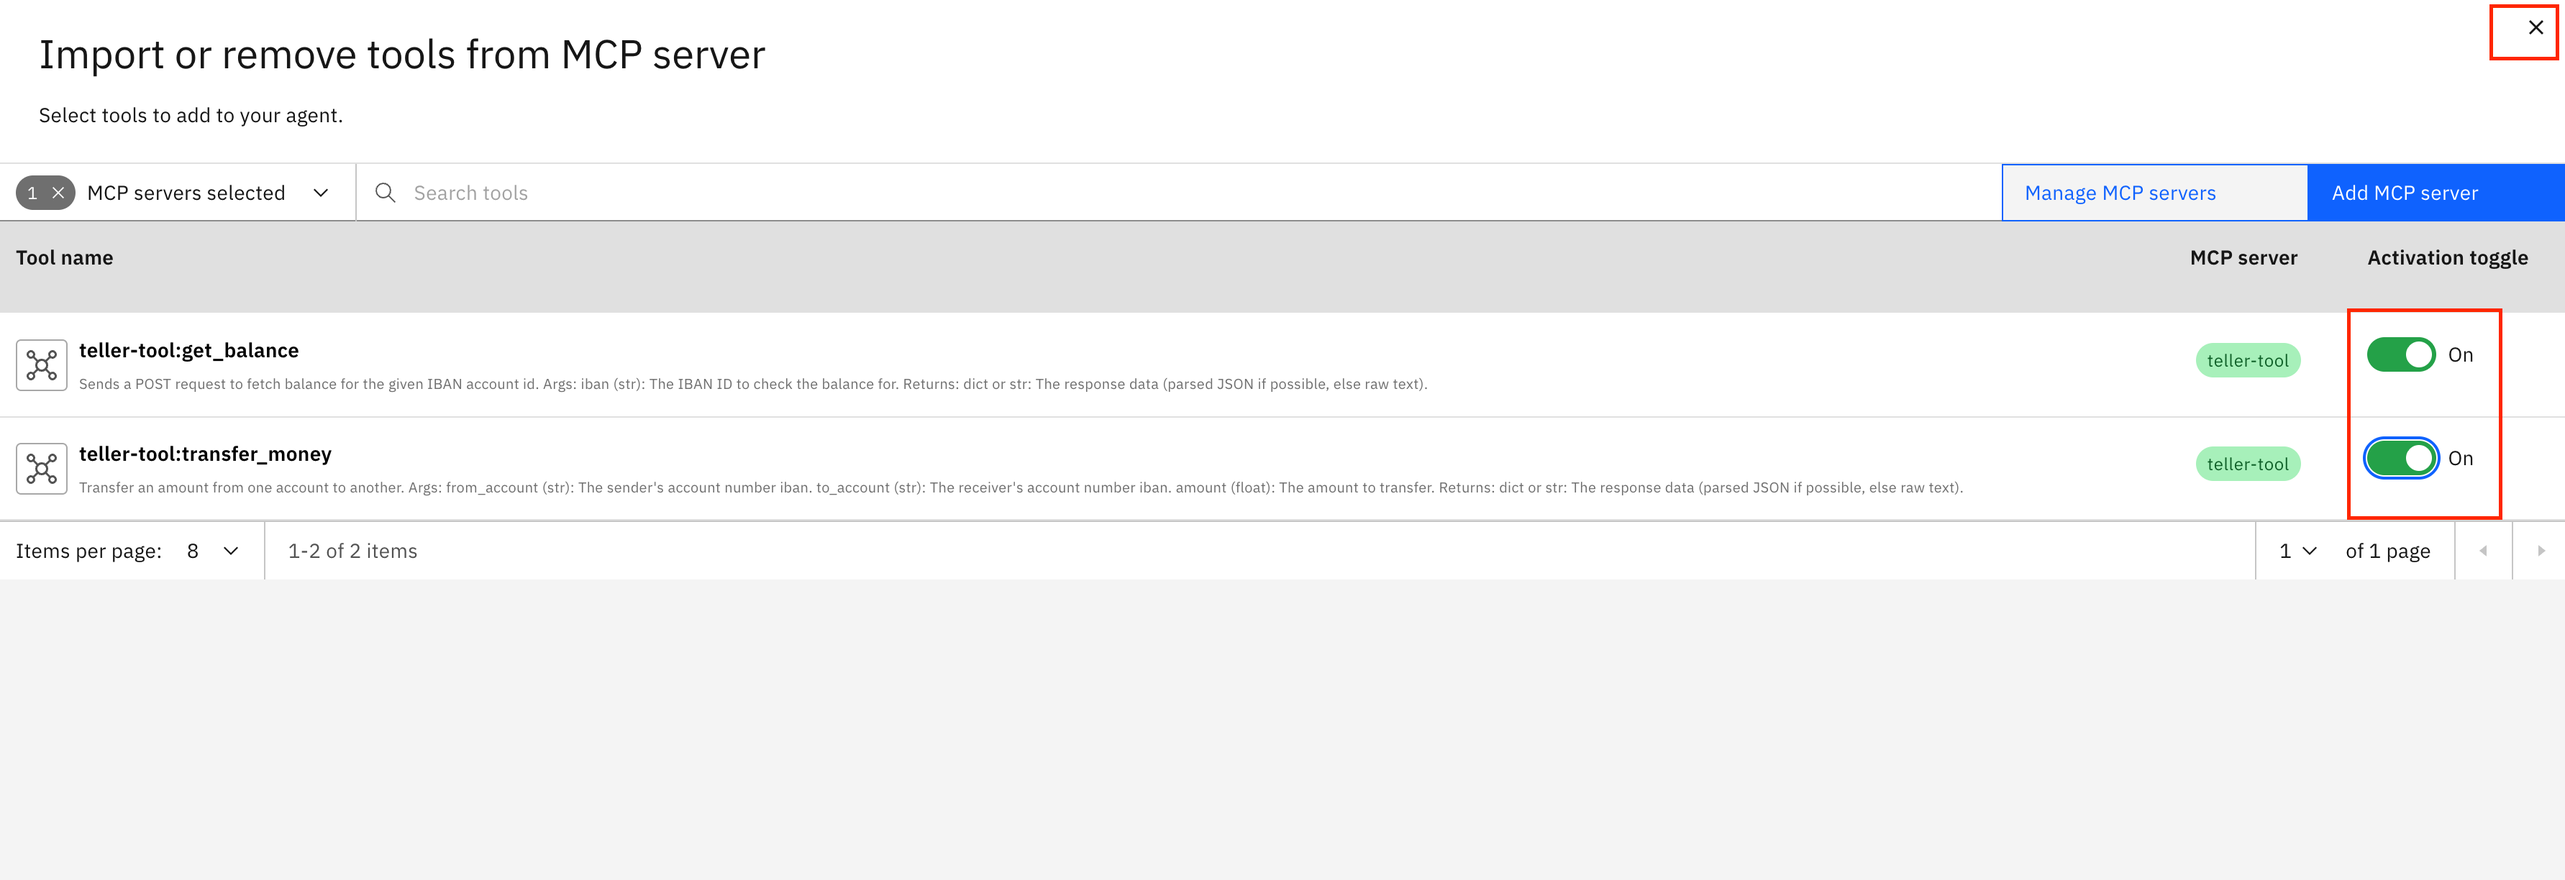
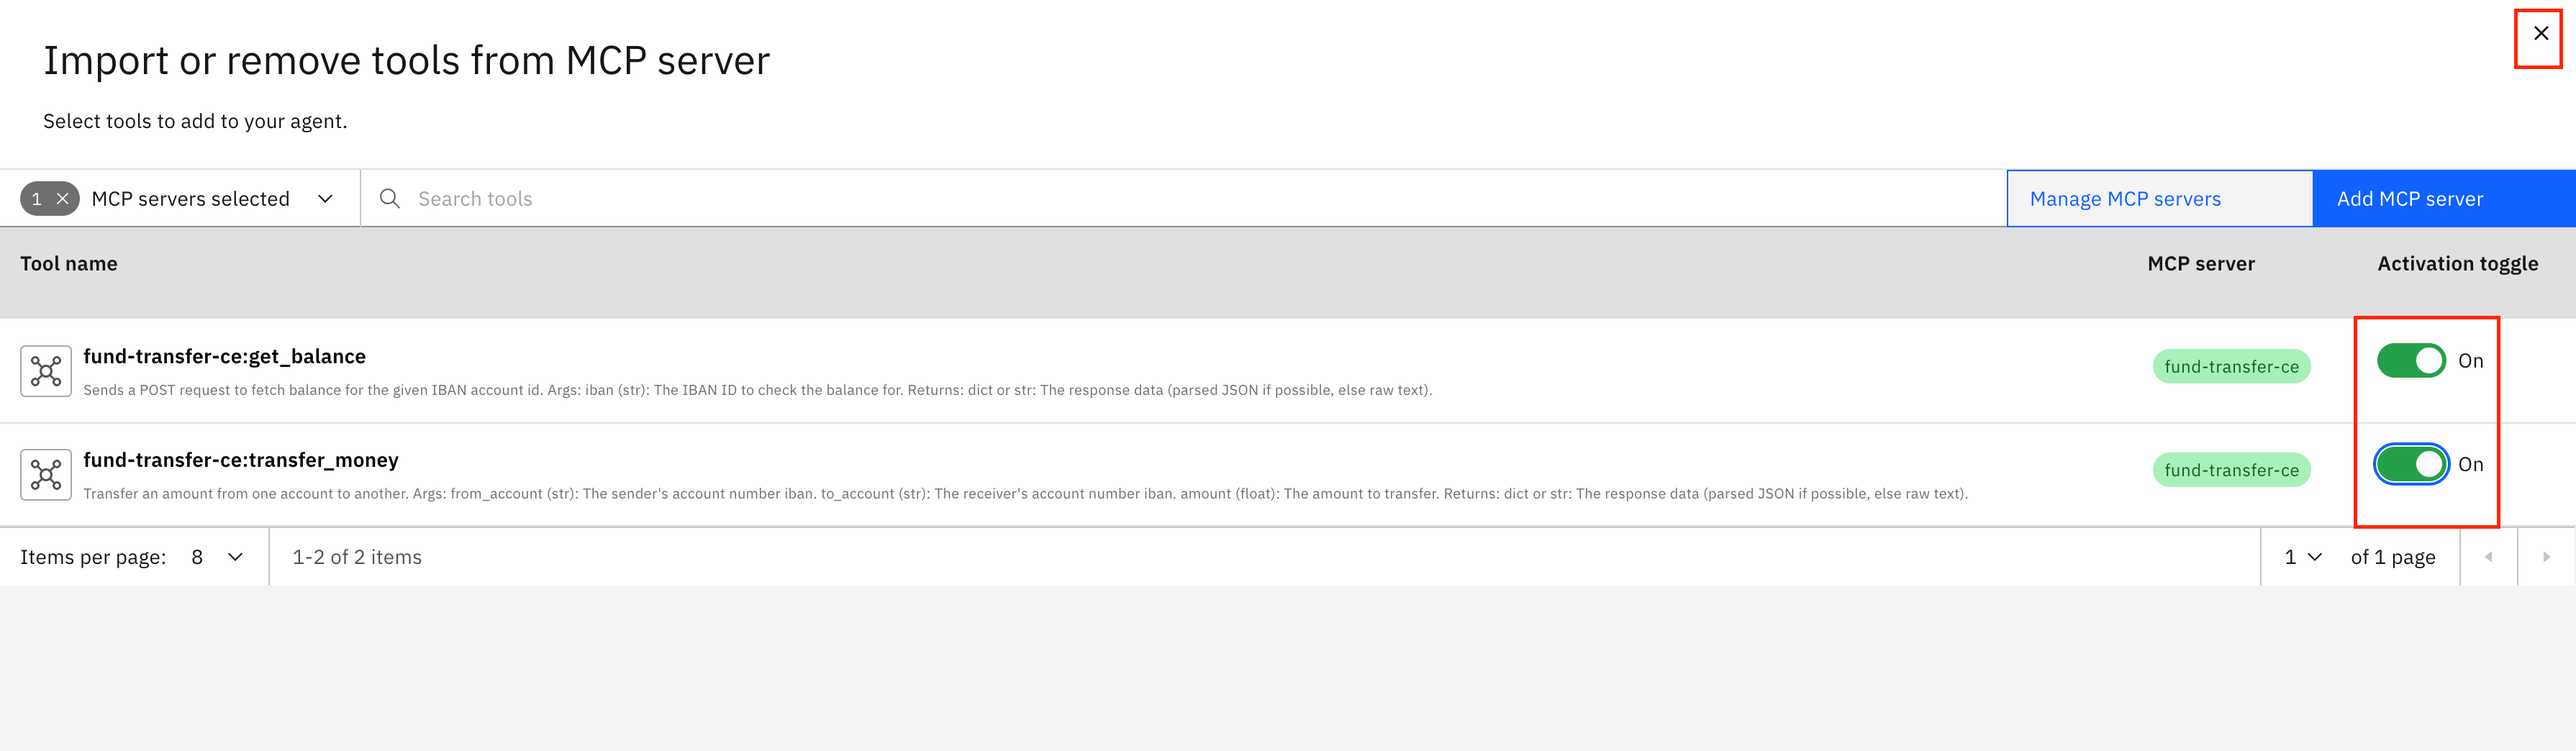
updated lab2b and agenda

diff --git a/website/lab2b.md b/website/lab2b.md
@@ -64,17 +64,11 @@ In this lab, we will be building the GFM Teller Agent. This Agent assists custom
 
      ![image](./imgs/lab2b/step7.png)
 
-9. Click **Add MCP server**  
+9. Click **Select MCP server**  
 
      ![image](./imgs/lab2b/step8.png)
 
-10. Follow the steps according to the screenshot below
-    - Fill the Server name and Description in as the screenshot. 
-    - Ensure Connection is selected to **None**
-    - Install Command : ```uvx mcp-proxy https://fund-transfer-mcp-tool20.1soswfjkmeox.us-south.codeengine.appdomain.cloud/sse/```, and 
-    - Click **Connect**
-
-    Once connection is successful, click **Done**
+10. In the dropdown list, select the `funds-transfer-ce` MCP server
 
      ![image](./imgs/lab2b/step9.png)
 
